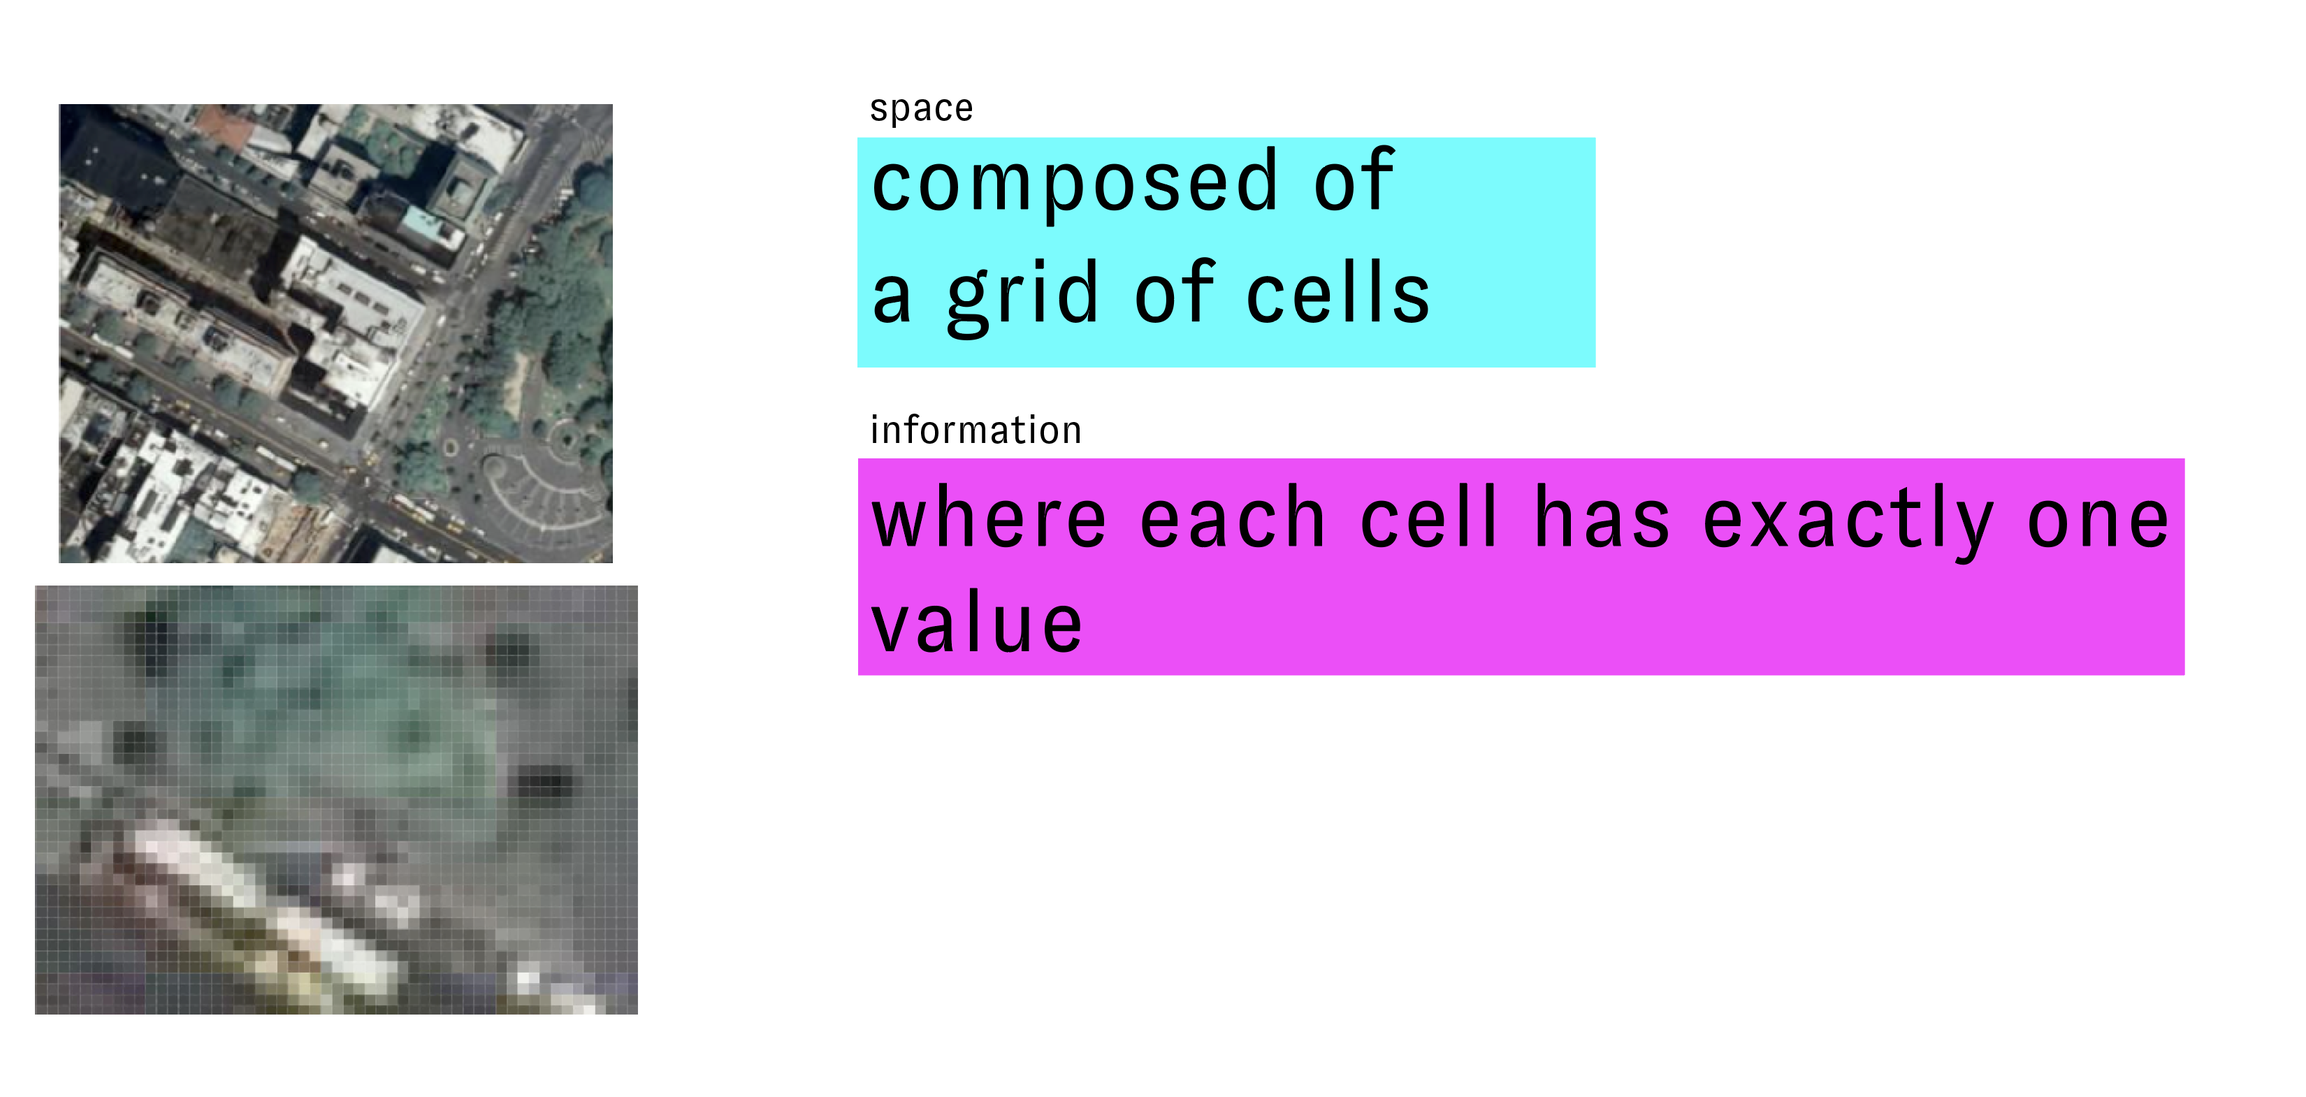
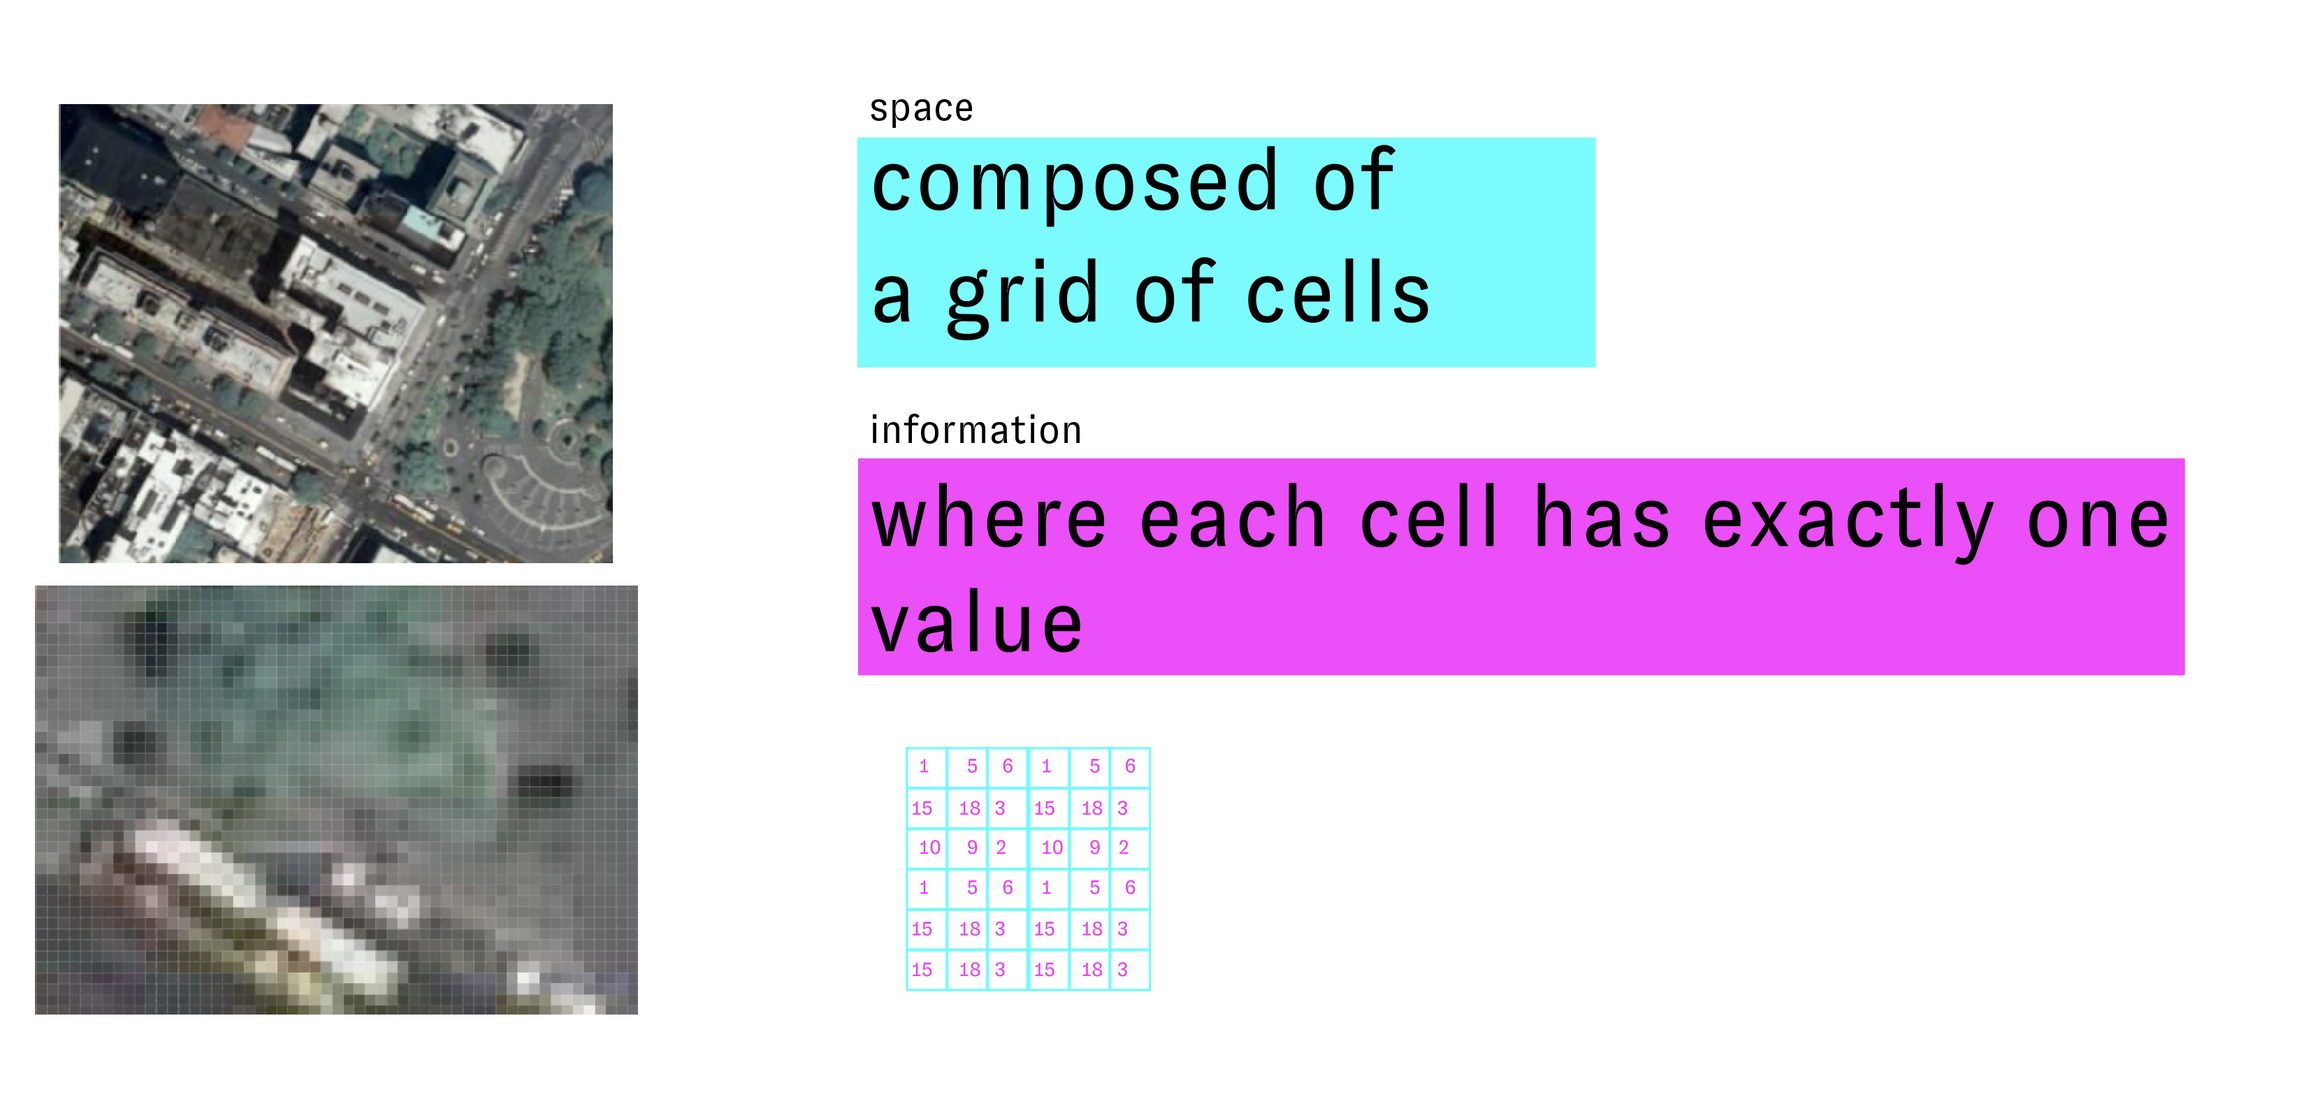
finalized spatial data and module sequences

Changed region(s): [[0.3745, 0.6866, 0.4994, 0.9051]]

diff --git a/src/content/modules/14-geospatial-concepts/142-spatial-data.md b/src/content/modules/14-geospatial-concepts/142-spatial-data.md
@@ -5,7 +5,10 @@ published: True
 slug: spatial-data
 ---
 
-# What is Spatial Data?
+# Spatial Data Types
+
+*"the technical question of the most appropriate data structure for the representation of geographic phenomena begs the philosophical question of the most appropriate conceptualization of the geographic world."*  
+Helen Couclelis. 1992. "People Manipulate Objects (but Cultivate Fields): Beyond the Raster-Vector Debate in GIS." 
 
 ## Module Summary
 
@@ -80,35 +83,77 @@ Each geometry type is defined computationally by the following features:
 
 The things that each type of geometry is used to represent is subjective and depends on the scale of the dataset. For example points could represent fire hydrants on a map of a city block. Or, on a map of the whole world points could represent the location of the largest cities. Likewise the Hudson River could be represented as a single curving line on a map of the U.S. or could be represented as a polygon showing the river's varying width on a map of New York State.  
 
+***NEED TO FINISH UPDATING TEXT FROM HERE DOWN***
 ### Raster data
-![raster](images/142/05-raster.png)
-![raster as grid](images/142/06-raster-grid.png)
+
+Raster datasets are composed of a grid of cells where each cell contains exactly one numeric value, as illustrated schematically in the diagram below. Each cell has a dimension and therefore corresponds with some square area of the Earth's surface. Raster datasets must always be rectangular.
+
+![raster](images/142/06-raster-grid.png)
+![raster as grid](images/142/05-raster-.png#img-right)
+
+In contrast to vector dataset's discrete entities (features), rasters represent information as a continuous surface. Each cell does not necessarily represent a different entity but instead represents some observed numeric value associated with a specific square area of the earth's surface. This is a fundamentally different way of abstracting phenomena in the world.  
+
+For example, imagine a vector dataset of building footprints. This dataset divides up an area into defined, discrete zones that fall within or outside of specific bounded building footprint.  
+
+In contrast, a 'true-color' satellite image of a city (a raster dataset like the one on the right) might also depict or capture buildings, but it represents them in an entirely different way. The dataset is comprised of a grid of cells each corresponding to an area on the earth's surface (say 1 square meter). Each grid cell has a specific numeric value that represents the color of the reflected light within that grid cell. Buildings are visible, as a collection of similarly grey-ish grid cells not as a bounded entity. The viewer brings meaning and interpretation to patterns visible in the collection of cells.  
+
+This makes raster ideal for representing continuous phenomena like elevation, temperature, electromagetic radiation (i.e. remotely sensed imagery).  
+
+The conceptual and theoretical differences between vector and raster data are described at length in Helen Couclelis' 1992 conference paper ["People Manipulate Objects (but Cultivate Fields): Beyond the Raster-Vector Debate in GIS"](https://www.researchgate.net/publication/221589734_People_Manipulate_Objects_but_Cultivate_Fields_Beyond_the_Raster-Vector_Debate_in_GIS). Couclelis is masterful in how she manages to describe the philosophical differences between these two data types in terms that are directly relevant to the use of spatial data in practice.  
+
+## Storage Types  
+
+Vector and raster datasets are distributed and stored in a number of different file types. The lists below provide a (non-exhaustive) overview of some of the most common data storage types you might encounter.  
+
+### Vector Data
+
+- [Shapefile](https://www.loc.gov/preservation/digital/formats/fdd/fdd000280.shtml)
+  - old file format, developed in 1990s by [ESRI](https://www.esri.com/en-us/home) (the maker of ArcGIS software). Still largely the industry standard even though it is quite old.  
+  - up to seven different files, all with the same name
+    - **.shp – the geometry
+    - **.dbf – the table containing the variables
+    - **.shx – a positional index connecting the shp & dbf
+    - **.prj – contains the projection information
+    - **.shp.xml – contains the metadata
+    - **.sbn, **.sbx – spatial index files to help draw faster
+- [GeoJSON](https://www.loc.gov/preservation/digital/formats/fdd/fdd000382.shtml)
+  - open source file format
+  - one file, uses a `*.geojson` file extension
+  - standard format for mapping on the internet
+- [KML/KMZ](https://www.loc.gov/preservation/digital/formats/fdd/fdd000340.shtml)
+  - stands for "Keyhole Markup Language", often distributed in a compressed format through a `*.kmz` file.
+  - uses an XML format designed for storage of geographic data  
+  - developed specifically for the software that would become Google Earth
+- [ArcGIS geodatabase](https://www.loc.gov/preservation/digital/formats/fdd/fdd000293.shtml)
+  - format developed by ESRI, essentially a spatial database in disguise as a file. Can be opened with QGIS or ESRI softwares. Also possible to open using Python (osgeo library needed) 
+- Spatial databases 
+  - large scale projects are often best executed using spatial databases such as [PostgreSQL](https://en.wikipedia.org/wiki/PostgreSQL) with [PostGIS](https://en.wikipedia.org/wiki/PostGIS)
 
 
-## Storage types: Vector Data
+## Storage Types: Raster Data
 
-### Shapefile
+- [GeoTIFF](https://www.loc.gov/preservation/digital/formats/fdd/fdd000279.shtml)
+  - most common & most well supported file type
+  - extension of the TIFF data standard that allows for embeded geospatial metadata
+  - can also still be opened by non-spatial enabled software (i.e. photoshop)
+  - when a georeferenced raster dataset does not include 'inline' geographic metadata it may be accompanied by a [`*.tfw` world file](https://en.wikipedia.org/wiki/World_file) with the same file name which contains the spatial reference information for the raster dataset that is stored in the TIFF file. 
+    - When a raster dataset inlcudes a `*tfw` file, you need to make sure to place the `*.tiff` and `*.tfw` file in the same folder and maintain their matching names (just like with shapefiles).  
+- [JPEG 2000](https://www.loc.gov/preservation/digital/formats/fdd/fdd000303.shtml)
+  - similar to GeoTIFF, it is an extension of the JPEG file standard
+- [ERDAS IMAGINE (IMG) Format](https://www.loc.gov/preservation/digital/formats/fdd/fdd000420.shtml)
+  - often used for multilayer remote sensing data
+  - can hold classification information (such as for land use land cover maps)
 
-Old file format, developed in 1990s by ESRI. Still industry standard even though it is proprietary.  
 
-Up to seven different files, all with the same name
-**.shp – the geometry
-**.dbf – the table containing the variables
-**.shx – a positional index connecting the shp & dbf
-**.prj – contains the projection information
-**.shp.xml – contains the metadata
-**.sbn, **.sbx – spatial index files to help draw faster
+## Assignment
 
-### geojson
-open source
-one file
-standard format for mapping on the internet
-### KML/KMZ
-developed specifically for Google Earth
+Please read:  
 
-### Geodatabase
-ESRI proprietary developed format, essentially a database in disguise as a file. Can be opened with QGIS or ESRI softwares. Also possible to open using Python (osgeo library needed)
+Helen Couclelis. 1992. ["People Manipulate Objects (but Cultivate Fields): Beyond the Raster-Vector Debate in GIS."](https://www.researchgate.net/publication/221589734_People_Manipulate_Objects_but_Cultivate_Fields_Beyond_the_Raster-Vector_Debate_in_GIS)
+In: Frank A.U., Campari I., Formentini U. (eds) *Theories and Methods of Spatio-Temporal Reasoning in Geographic Space. Lecture Notes in Computer Science*, vol 639. Springer, Berlin, Heidelberg. 1992. 
+
 
 
 -------
+Module by Dare Brawley, fall 2021.  
 tutorial credit information, to be added in standard format

diff --git a/src/content/modules/15-intro-qgis/150-intro-qgis.md b/src/content/modules/15-intro-qgis/150-intro-qgis.md
@@ -15,20 +15,29 @@ This sequence of modules introduces key methods within geographic information sy
 
 Maps and geographic analysis are key tools for interpreting the built and social characteristics of cities. Thoughtful uses of spatial data can expose invisible patterns, and can change the way we see and engage with our world. However, maps are never just representations, they are always active in shaping the worlds they describe. With this in mind, the modules introduce approaches to gathering, visualizing, and interpreting spatial data as a starting point in the design process.
 
-## Modules:
+## Modules
 
 - Mapping Where
 - Print Layouts and Cartographic Design
 - Making Data from Archives
-- Making Data From Field Observations 
-- Making Data from Satellites: Multispectral 
+- Making Data From Field Observations
+- Making Data from Satellites: Multispectral Imagery
 - Making Data from Satellites: True Color
 - Final Project: A Subjective Atlas
 
 
 ## Modules overview/sequence
-- Mapping where
-- Making Data from Archives
-- Making Data From Observation & Sensing
-- Making Data from Satellites
-- Final Project: Urban Atlas
+
+- **Mapping Where**  
+    This module covers the basics of working with raster and vector spatial data within QGIS. After completing this module you will learn how to load datasets into a new QGIS project; modify coordinate reference systems; manipulate layer symbology based on attribute information; carry out spatial selections; and perform basic (but powerful!) spatial joins.
+    These concepts will be introduced through a series of studies of the trees of New York City.  
+- **Making Data from Archives** 
+    In this module you will learn techniques for creating spatial data from archival sources. In it we will cover how to georectify raster datasets (in this case a scanned paper map), giving them geographic coordinates based on reference data. Then the module will cover how to outline and trace features to create new vector-based data from those scanned materials, this is a process we call digitizing.  
+- **Making Data From Observation & Sensing**  
+    In this module you will be introduced to basic methods for field data collection through designing a method for recording information about your surroundings. Using the GPS capabilities of your cellphone you will turn this information into data that you can work with in GIS environment.  
+- **Making Data from Satellites: Multispectral Imagery**  
+    This module will introduce you to multispectral satellite imagery, and to the process of visualizing phenomena through 'false color composites'.  
+- **Making Data from Satellites: True Color**  
+    This is an introduction to batch downloading true color satellite imagery/aerial photography using the Google Static Maps API.  
+- **Final Project: Urban Atlas**  
+    Instructions and precedent projects to develop an atlas of your mapping assignments thus far.

diff --git a/src/content/modules/14-geospatial-concepts/140-geospatial-concepts.md b/src/content/modules/14-geospatial-concepts/140-geospatial-concepts.md
@@ -15,15 +15,18 @@ This sequence of modules introduces foundational concepts in geographic informat
 
 The increasingly widespread availability of up-to-date (or even real-time) spatial data is changing the landscape of possibility for design workflows and methods of urban analysis. Having a robust understanding of concepts central to spatial analysis makes it possible to develop fluency in methods of spatial computation across a range of platforms and software environments. Geographic information systems is not a software, but rather a set of related methods which can be implemented in a range of softwares and programming languages.  
 
-## Modules:
+## Modules
 
-- What is GIS?
-- Spatial Data - Information Tied to a Space
-- Coordinate Reference Systems & Projections
-- Finding Spatial Data
+- **What is GIS?**  
+    This module will introduce geographic information systems (GIS) and their application for research and design of the built environment.  
+- **Spatial Data**  
+    This module introduces vector and raster spatial data types and discusses the different forms of representation and abstraction required by each. It asks readers to think critically about the affordances and limitations offered by each type of spatial data.  
+- **Coordinate Reference Systems & Projections**  
+    This module covers fundamental concepts related to coordinate reference systems and map projections -- in other words it provides answers to the questions: how do we define location? and how do we represent the round earth on a flat plane?
 
 ## What's next
 
 After completing the Introduction to Geographic Information Systems and Spatial Data module sequence you may choose to continue learning spatial concepts in multiple processing/software environments.  
 
+- {{Introduction to GIS with QGIS}}
 {{links to module sequences for spatial analysis in QGIS, Python & Grasshopper}}

diff --git a/src/content/modules/15-intro-qgis/156-aerial-imagery.md b/src/content/modules/15-intro-qgis/156-aerial-imagery.md
@@ -6,7 +6,7 @@ slug: aerial
 ---
 # Satellite Grids & Google Static Maps API
 
-This is a brief guide to using the Google Static Maps API (Application Programming Interface). In it we provide an example python script that allows you to download satellite/aerial imagery through the [Google Static Maps API](https://developers.google.com/maps/documentation/maps-static/dev-guide). 
+This is a brief guide to using the Google Static Maps API (Application Programming Interface). In it we provide an example python script that allows you to download satellite/aerial imagery through the [Google Static Maps API](https://developers.google.com/maps/documentation/maps-static/dev-guide).  
 
 The (very simple) script in this tutorial was initially developed as part of the Center for Spatial Research's work on *[In Plain Sight](https://c4sr.columbia.edu/projects/plain-sight)*, an installation for the 16th International Architecture Exhibition of La Biennale di Venezia in 2018.
 
@@ -217,8 +217,11 @@ Upload to Canvas:
 - the csv file you used and 
 - a screenshot of the directory on your computer where you have saved your downloaded images 
 
-_________________________________________________________________________________
-Guide written by Dare Brawley based on tools used in producing *[In Plain Sight](https://c4sr.columbia.edu/projects/plain-sight)*, an installation for the 16th International Architecture Exhibition of La Biennale di Venezia in 2018.
+---
+Module by Dare Brawley, fall 2021.  
+tutorial credit information, to be added in standard format
+
+
 
 
 [grid of satellite images]:images/156/satellite_grids_01.png

diff --git a/src/content/modules/15-intro-qgis/155-satellites.md b/src/content/modules/15-intro-qgis/155-satellites.md
@@ -9,7 +9,7 @@ slug: satellites
 
 ## Multispectral satellite imagery 
 
-This portion of the tutorial will introduce you to multispectral satellite imagery, and to the process of visualizing phenomena through 'false color composites'. As an introduction we will create false color composites using Landsat satellite imagery of Puerto Rico captured just before and after [Hurricane Maria](https://en.wikipedia.org/wiki/Hurricane_Maria) (on September 17 2017 and October 3 2017).
+This module will introduce you to multispectral satellite imagery, and to the process of visualizing phenomena through 'false color composites'. As an introduction we will create false color composites using Landsat satellite imagery of Puerto Rico captured just before and after [Hurricane Maria](https://en.wikipedia.org/wiki/Hurricane_Maria) (on September 17 2017 and October 3 2017).
 
 After completing this exercise you will:
 * have familiarity with basic characteristics of multispectral satellite imagery
@@ -168,8 +168,8 @@ Create a map using Landsat Satellite imagery that shows land use change over tim
 
 
 ---
-Tutorial by Dare Brawley, Spring 2021
-
+Module by Dare Brawley, fall 2021.  
+tutorial credit information, to be added in standard format
 
 [satellite12a]: images/155/satellite12.png
 [spectrum]: images/155/Landsat8_SpectralBands.jpg

diff --git a/src/content/modules/15-intro-qgis/151-mapping-where.md b/src/content/modules/15-intro-qgis/151-mapping-where.md
@@ -12,7 +12,7 @@ These concepts will be introduced through a series of studies of the trees of Ne
 
 ## Setup
 
-### File management 
+### File management
 
 All datasets within your QGIS project are not embedded but rather are stored as links to wherever the dataset is stored. Because of this file and data management is an important component of work in QGIS.  
 
@@ -280,6 +280,6 @@ Your designed map compositions must thoughtfully include:
 - your name
 
 
-
--------
+---
+Module by Dare Brawley, fall 2021.  
 tutorial credit information, to be added in standard format

diff --git a/src/content/modules/15-intro-qgis/152-print-layout.md b/src/content/modules/15-intro-qgis/152-print-layout.md
@@ -134,5 +134,6 @@ Map design more generally:
 
 2. In conjunction with the assignment for the [mapping where]() module: choose 2-3 individual elements from within your reference atlas and apply them in the design of your *Four Views of Trees in New York City*.  
 
---------
+---
+Module by Dare Brawley, fall 2021.  
 tutorial credit information, to be added in standard format

diff --git a/src/content/modules/15-intro-qgis/153-archives.md b/src/content/modules/15-intro-qgis/153-archives.md
@@ -154,5 +154,6 @@ Present your hidden ecologies map as a designed map composition that includes:
 You do not need to map all of Manhattan but rather should find a location that interests you and make an argument about that location through your map design.  
 
 
--------
+---
+Module by Dare Brawley, fall 2021.  
 tutorial credit information, to be added in standard format

diff --git a/src/content/modules/15-intro-qgis/154-observations.md b/src/content/modules/15-intro-qgis/154-observations.md
@@ -121,5 +121,6 @@ Use Field Papers to generate a paper atlas for the area where you are collecting
 
 Create two maps that speak to the different kinds of information that each approach allows you to gather.  
 
--------
+---
+Module by Dare Brawley, fall 2021.  
 tutorial credit information, to be added in standard format

diff --git a/src/content/modules/14-geospatial-concepts/141-what-is-gis.md b/src/content/modules/14-geospatial-concepts/141-what-is-gis.md
@@ -114,4 +114,5 @@ Maantay, Juliana, and John Ziegler. GIS for the Urban Environment. Redlands, Cal
 
 
 -------
+Module by Dare Brawley, fall 2021.  
 tutorial credit information, to be added in standard format
